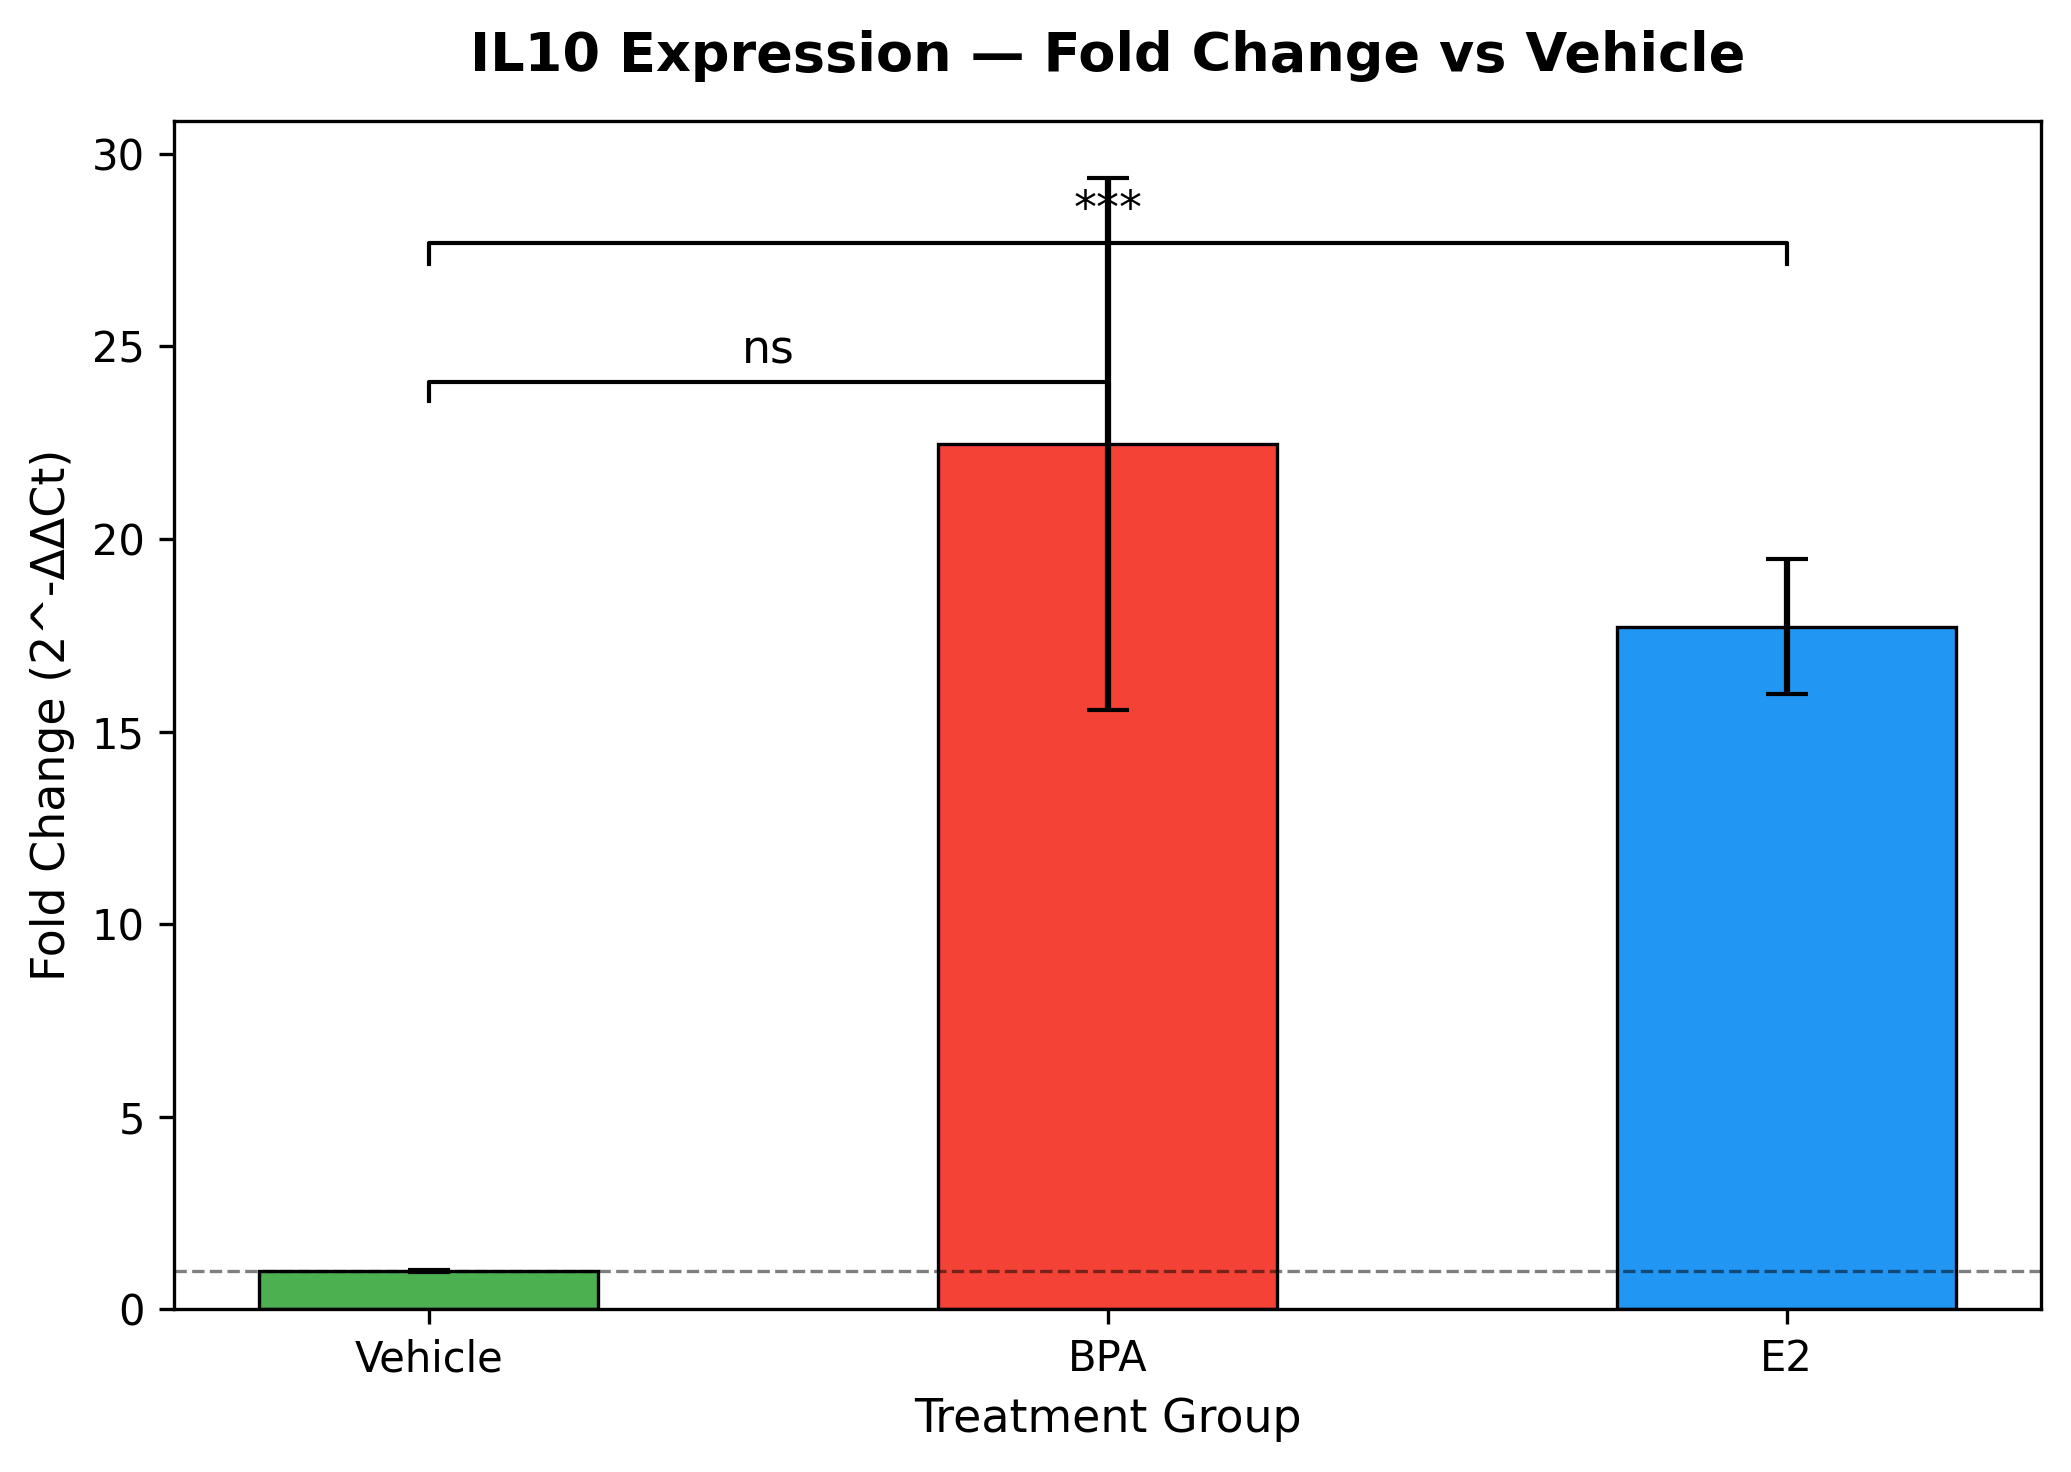
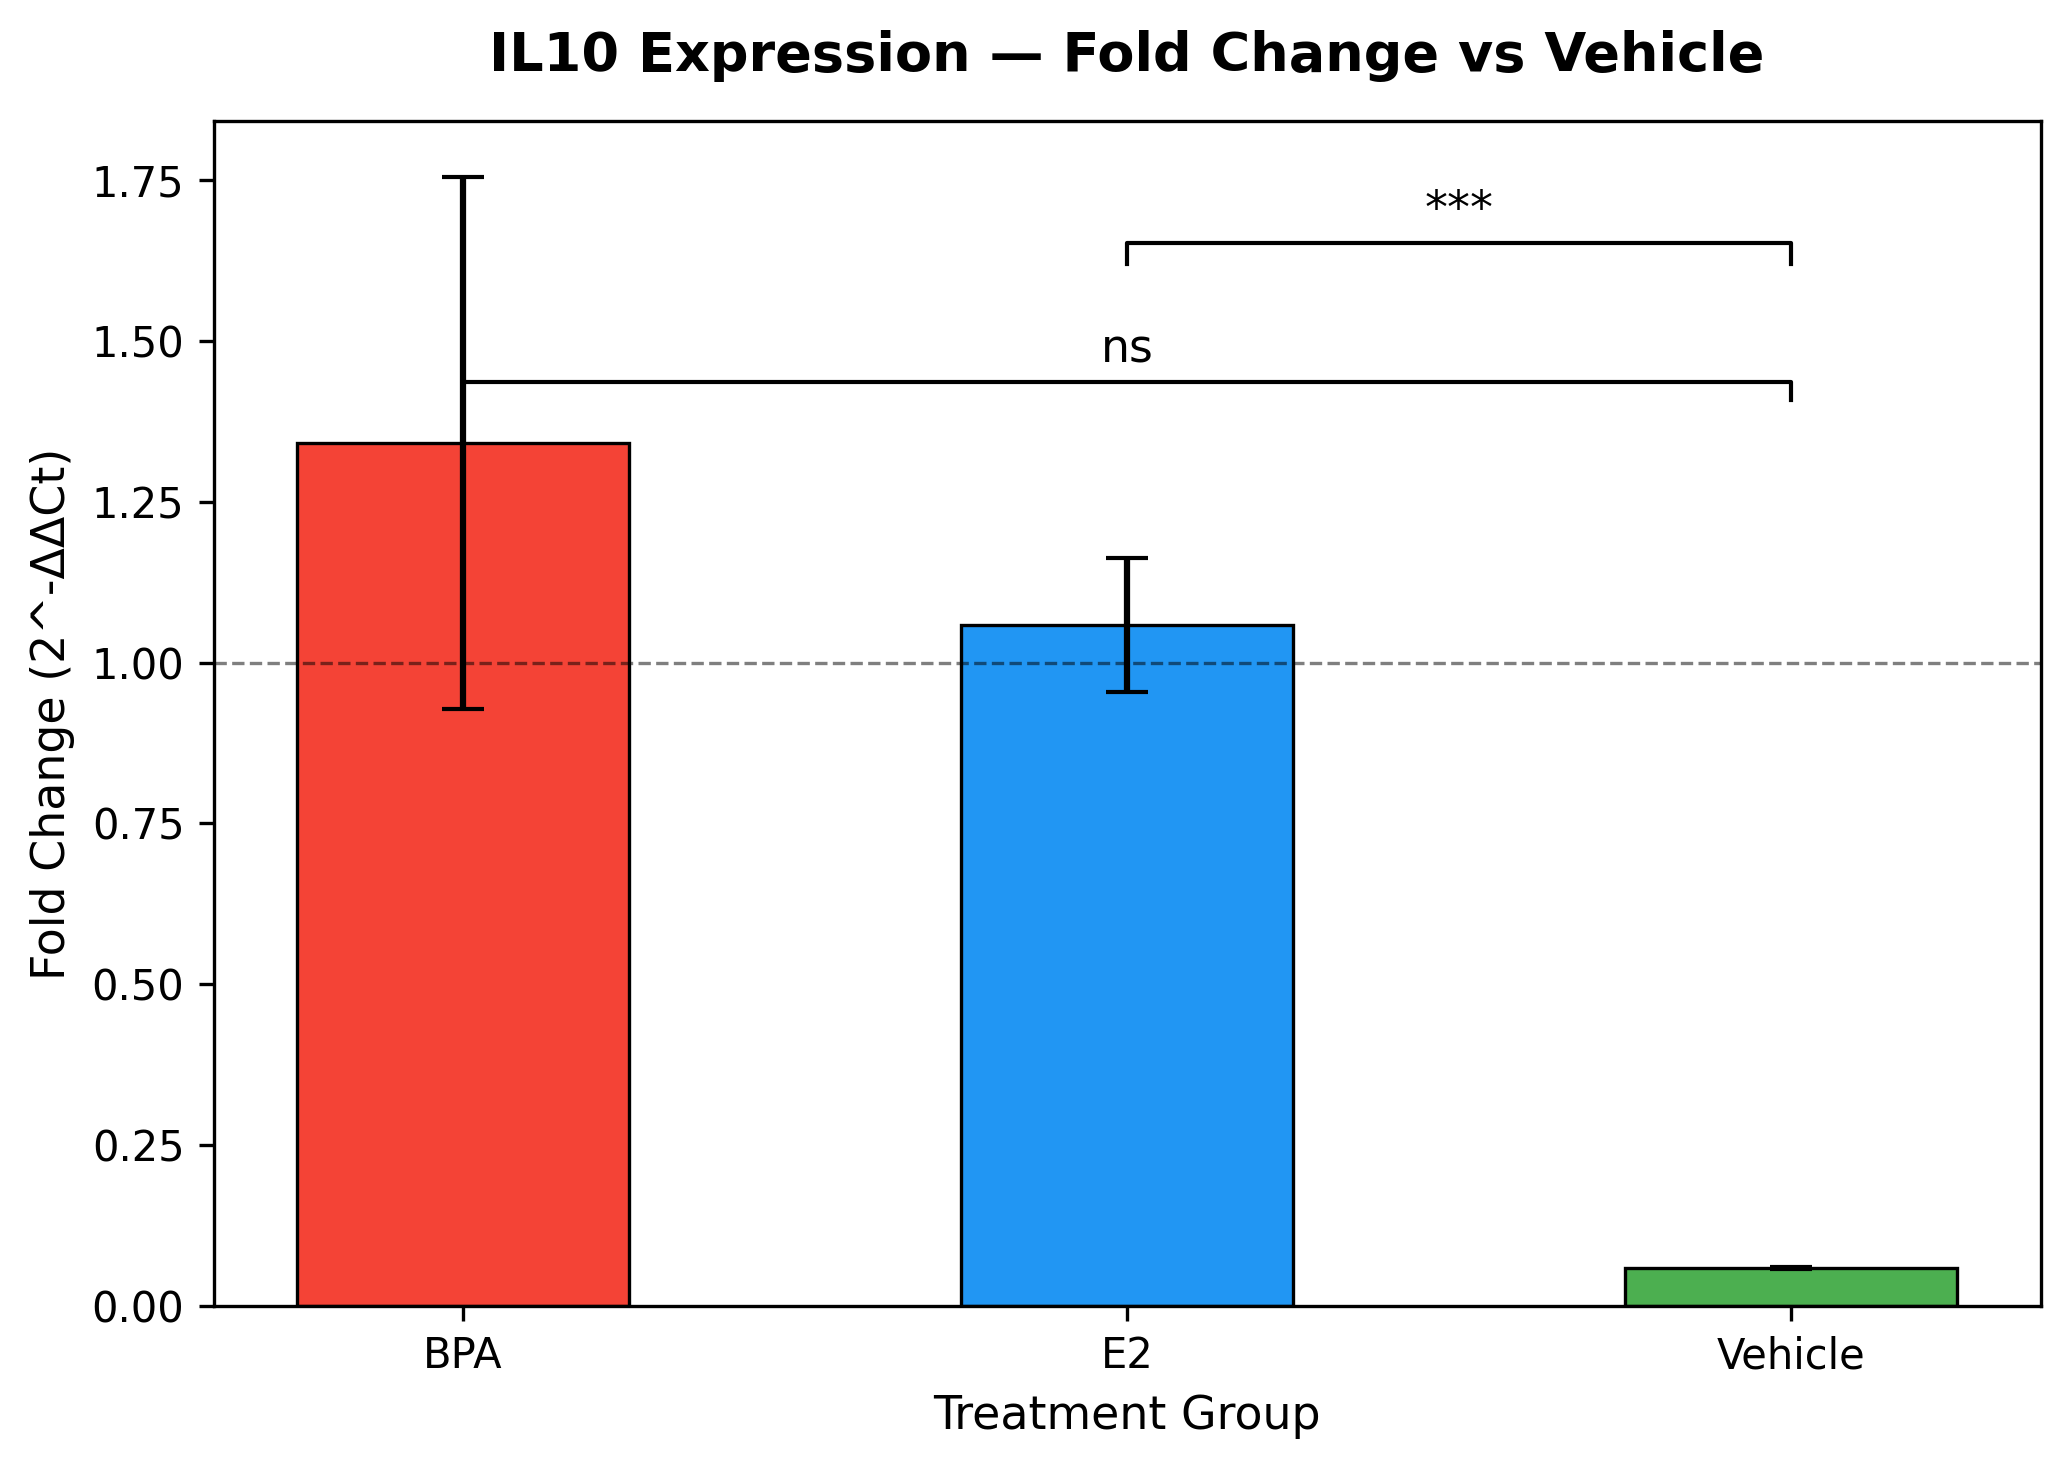
add Streamlit app - full working UI

diff --git a/app.py b/app.py
@@ -1,0 +1,148 @@
+import streamlit as st
+import pandas as pd
+from modules.qpcr import run_pipeline
+from modules.lmm import run_lmm, summarize_lmm
+from modules.plots import plot_fold_changes, plot_litter_variance
+from PIL import Image
+
+# ── PAGE CONFIG ──
+st.set_page_config(
+    page_title="house-keeping-it-real",
+    page_icon="🧬",
+    layout="wide"
+)
+
+# ── HEADER ──
+st.title("🧬 house-keeping-it-real")
+st.markdown("*A qRT-PCR analysis tool for Dr. Stevenson's lab — and beyond.*")
+st.divider()
+
+# ── SIDEBAR ──
+with st.sidebar:
+    st.header("⚙️ Experiment Settings")
+
+    experiment_type = st.radio(
+        "Experiment type",
+        ["In vitro (no grouping effect)",
+         "In vivo (account for grouping effect)"],
+        help="In vivo mode uses a Linear Mixed Model to account for litter or other grouping effects."
+    )
+
+    st.divider()
+    st.markdown("**Upload your data**")
+    uploaded_file = st.file_uploader("Upload CSV", type=["csv"])
+
+# ── MAIN AREA ──
+if uploaded_file is None:
+    st.info("👈 Upload your CSV file in the sidebar to get started.")
+
+    st.markdown("### Expected CSV format")
+    st.markdown("Your CSV should have the following columns:")
+    example = pd.DataFrame({
+        'sample_id':  ['S01', 'S02', 'S03'],
+        'mouse_id':   ['M01', 'M02', 'M03'],
+        'litter_id':  ['L1', 'L1', 'L2'],
+        'treatment':  ['BPA', 'Vehicle', 'E2'],
+        'gene1_ct':   [28.3, 31.2, 27.1],
+        'gapdh_ct':   [20.2, 20.1, 20.2],
+    })
+    st.dataframe(example, use_container_width=True)
+    st.markdown("""
+    - **sample_id** — unique identifier for each sample
+    - **litter_id** — litter or grouping ID *(required for in vivo mode)*
+    - **treatment** — treatment group name (e.g. BPA, E2, Vehicle)
+    - **gene_ct columns** — one column per gene including your housekeeping gene
+    """)
+
+else:
+    # Load data
+    df = pd.read_csv(uploaded_file)
+    st.success(f"✅ Loaded {len(df)} samples successfully!")
+
+    with st.expander("Preview raw data"):
+        st.dataframe(df, use_container_width=True)
+
+    st.divider()
+
+    # ── COLUMN SELECTION ──
+    st.subheader("🔧 Configure Analysis")
+    col1, col2, col3 = st.columns(3)
+
+    all_cols = df.columns.tolist()
+
+    with col1:
+        treatment_col = st.selectbox("Treatment column", all_cols,
+                                     index=all_cols.index('treatment') if 'treatment' in all_cols else 0)
+        control_group = st.selectbox(
+            "Control group", df[treatment_col].unique().tolist())
+
+    with col2:
+        housekeeping_col = st.selectbox("Housekeeping gene column", all_cols,
+                                        index=all_cols.index('gapdh_ct') if 'gapdh_ct' in all_cols else 0)
+        gene_options = [c for c in all_cols if c.endswith(
+            '_ct') and c != housekeeping_col]
+        gene_cols = st.multiselect(
+            "Genes of interest", gene_options, default=gene_options)
+
+    with col3:
+        if "In vivo" in experiment_type:
+            litter_col = st.selectbox("Grouping variable column",
+                                      [c for c in all_cols if 'litter' in c or 'group' in c or 'id' in c.lower()])
+
+    st.divider()
+
+    # ── RUN ANALYSIS ──
+    if st.button("▶️ Run Analysis", type="primary"):
+        if not gene_cols:
+            st.error("Please select at least one gene of interest.")
+        else:
+            with st.spinner("Running analysis..."):
+
+                # Run qPCR pipeline
+                results = run_pipeline(
+                    df, gene_cols, housekeeping_col, treatment_col, control_group)
+
+                st.subheader("📊 Results")
+
+                for gene in gene_cols:
+                    gene_display = gene.replace('_ct', '').upper()
+                    st.markdown(f"### {gene_display}")
+
+                    tab1, tab2 = st.tabs(["Fold Change Plot", "LMM Results (in vivo)"]
+                                         if "In vivo" in experiment_type
+                                         else ["Fold Change Plot", "Summary Table"])
+
+                    with tab1:
+                        plot_path = plot_fold_changes(
+                            results, gene, treatment_col)
+                        st.image(plot_path, use_container_width=False)
+
+                    with tab2:
+                        if "In vivo" in experiment_type:
+                            lmm_result = run_lmm(
+                                results, gene, treatment_col, litter_col, control_group)
+                            summary, pct_litter, pct_residual = summarize_lmm(
+                                lmm_result, gene)
+
+                            col_a, col_b = st.columns(2)
+                            with col_a:
+                                st.markdown("**Fixed Effects (Treatment)**")
+                                st.dataframe(summary, use_container_width=True)
+                            with col_b:
+                                variance_path = plot_litter_variance(
+                                    pct_litter, pct_residual, gene)
+                                st.image(variance_path,
+                                         use_container_width=False)
+                        else:
+                            fold_col = f'fold_change_{gene}'
+                            summary_table = results.groupby(treatment_col)[fold_col].agg(
+                                ['mean', 'sem', 'count']).reset_index()
+                            summary_table.columns = [
+                                'Treatment', 'Mean Fold Change', 'SEM', 'N']
+                            summary_table = summary_table.round(4)
+                            st.dataframe(
+                                summary_table, use_container_width=True)
+
+                st.divider()
+                st.success(
+                    "✅ Analysis complete! Check the outputs/ folder for saved figures.")